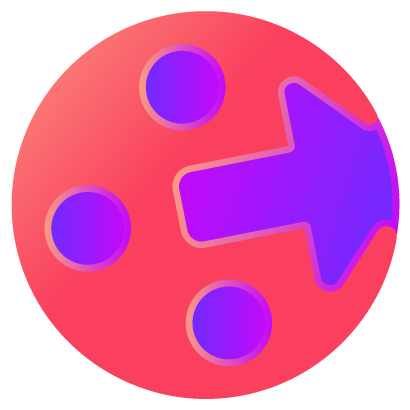
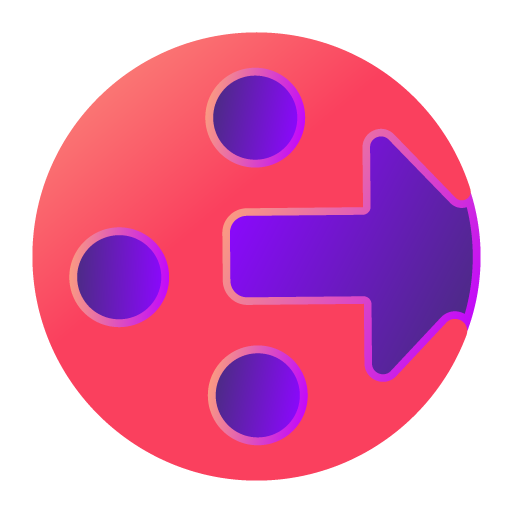
feat: creacion de pantalla de bienvenidad tipo Splash Screen

diff --git a/lib/screens/bienvenida_screen.dart b/lib/screens/bienvenida_screen.dart
@@ -1,0 +1,35 @@
+import 'package:flutter/material.dart';
+
+class BienvenidaScreen extends StatefulWidget {
+  const BienvenidaScreen({super.key});
+
+  @override
+  State<BienvenidaScreen> createState() => _BienvenidaScreenState();
+}
+
+class _BienvenidaScreenState extends State<BienvenidaScreen> {
+  @override
+  Widget build(BuildContext context) {
+    return Scaffold(
+      body: Container(
+        alignment: Alignment.center,
+        margin: EdgeInsets.all(10),
+        child: Column(
+          mainAxisAlignment: MainAxisAlignment.center,
+          crossAxisAlignment: CrossAxisAlignment.center,
+          children: [
+            Image.asset("assets/images/logoicon1.png", height: 200),
+            Text(
+              '¡Bienvenido!',
+              style: TextStyle(fontSize: 15, fontWeight: FontWeight.w500),
+            ),
+            Text(
+              'Mira y disfruta de tus peliculas favoritas',
+              style: TextStyle(fontWeight: FontWeight.w300),
+            ),
+          ],
+        ),
+      ),
+    );
+  }
+}

diff --git a/lib/main.dart b/lib/main.dart
@@ -1,5 +1,5 @@
 import 'package:flutter/material.dart';
-import 'package:peliculas_app/navigations/stacknavigation.dart';
+import 'package:peliculas_app/screens/bienvenida_screen.dart';
 
 void main() {
   runApp(PeliculasApp());
@@ -23,6 +23,6 @@ class Cuerpo extends StatelessWidget {
 
   @override
   Widget build(BuildContext context) {
-    return Scaffold(body: Stacknavigation());
+    return Scaffold(body: BienvenidaScreen());
   }
 }
